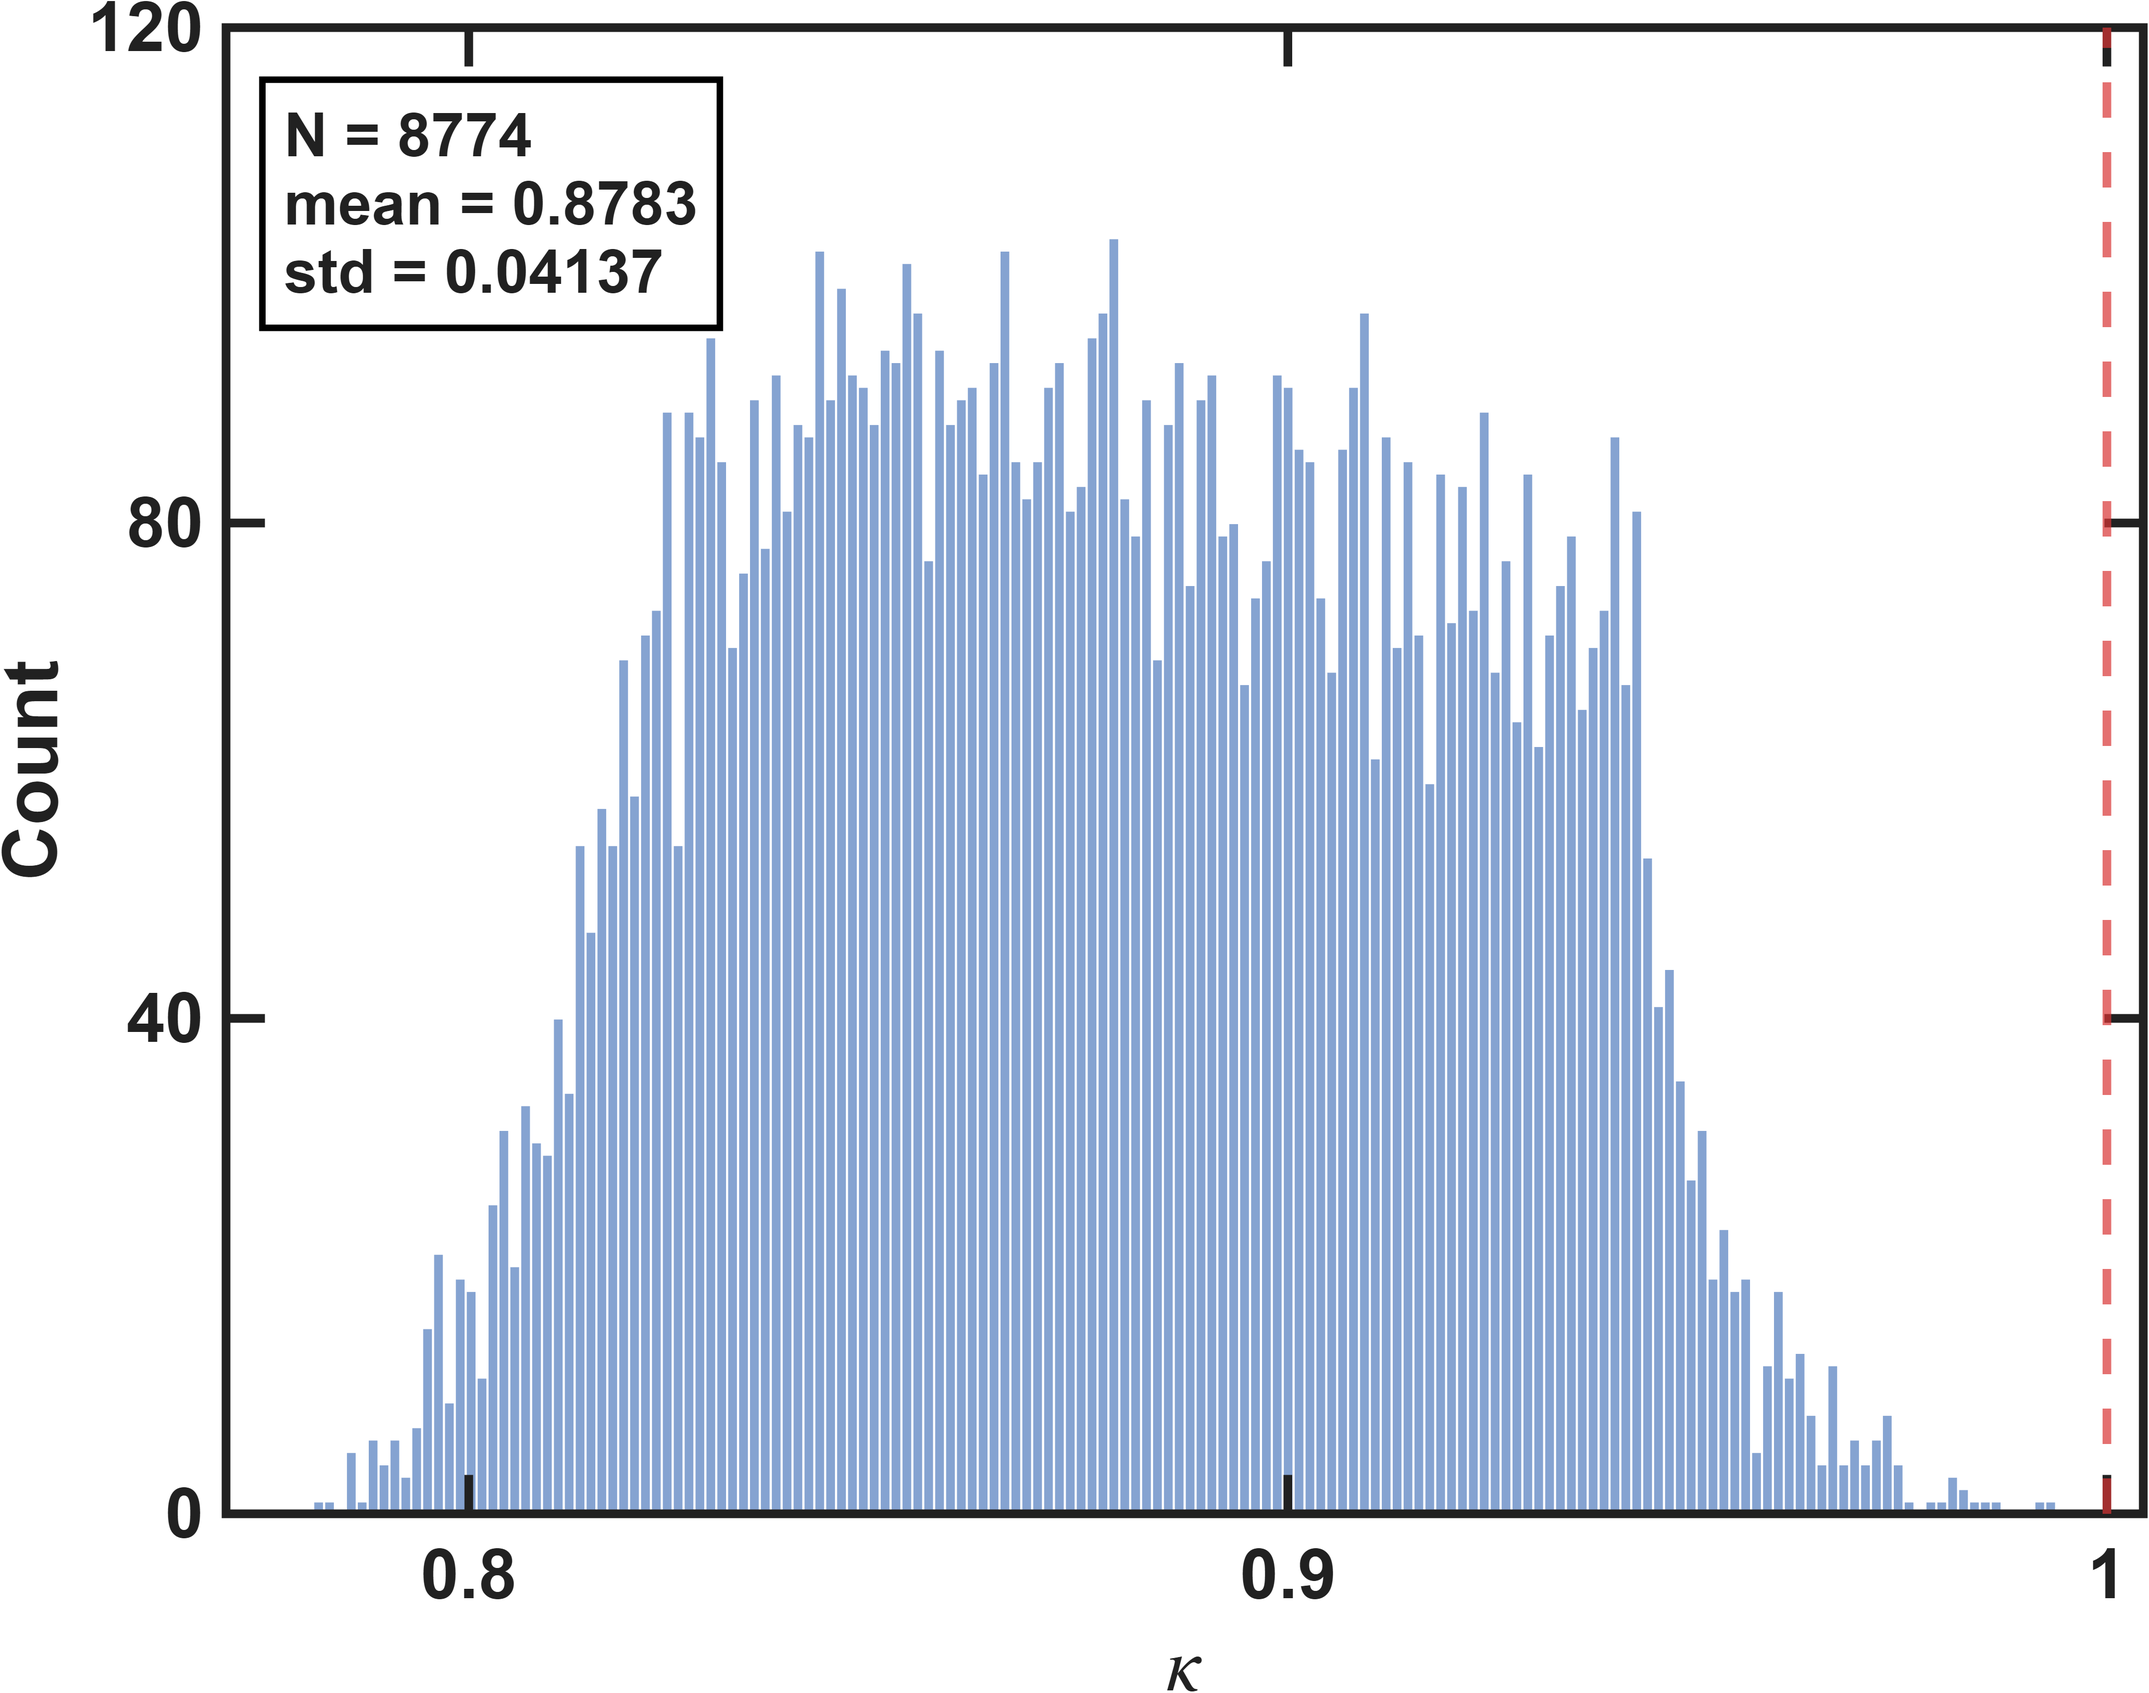
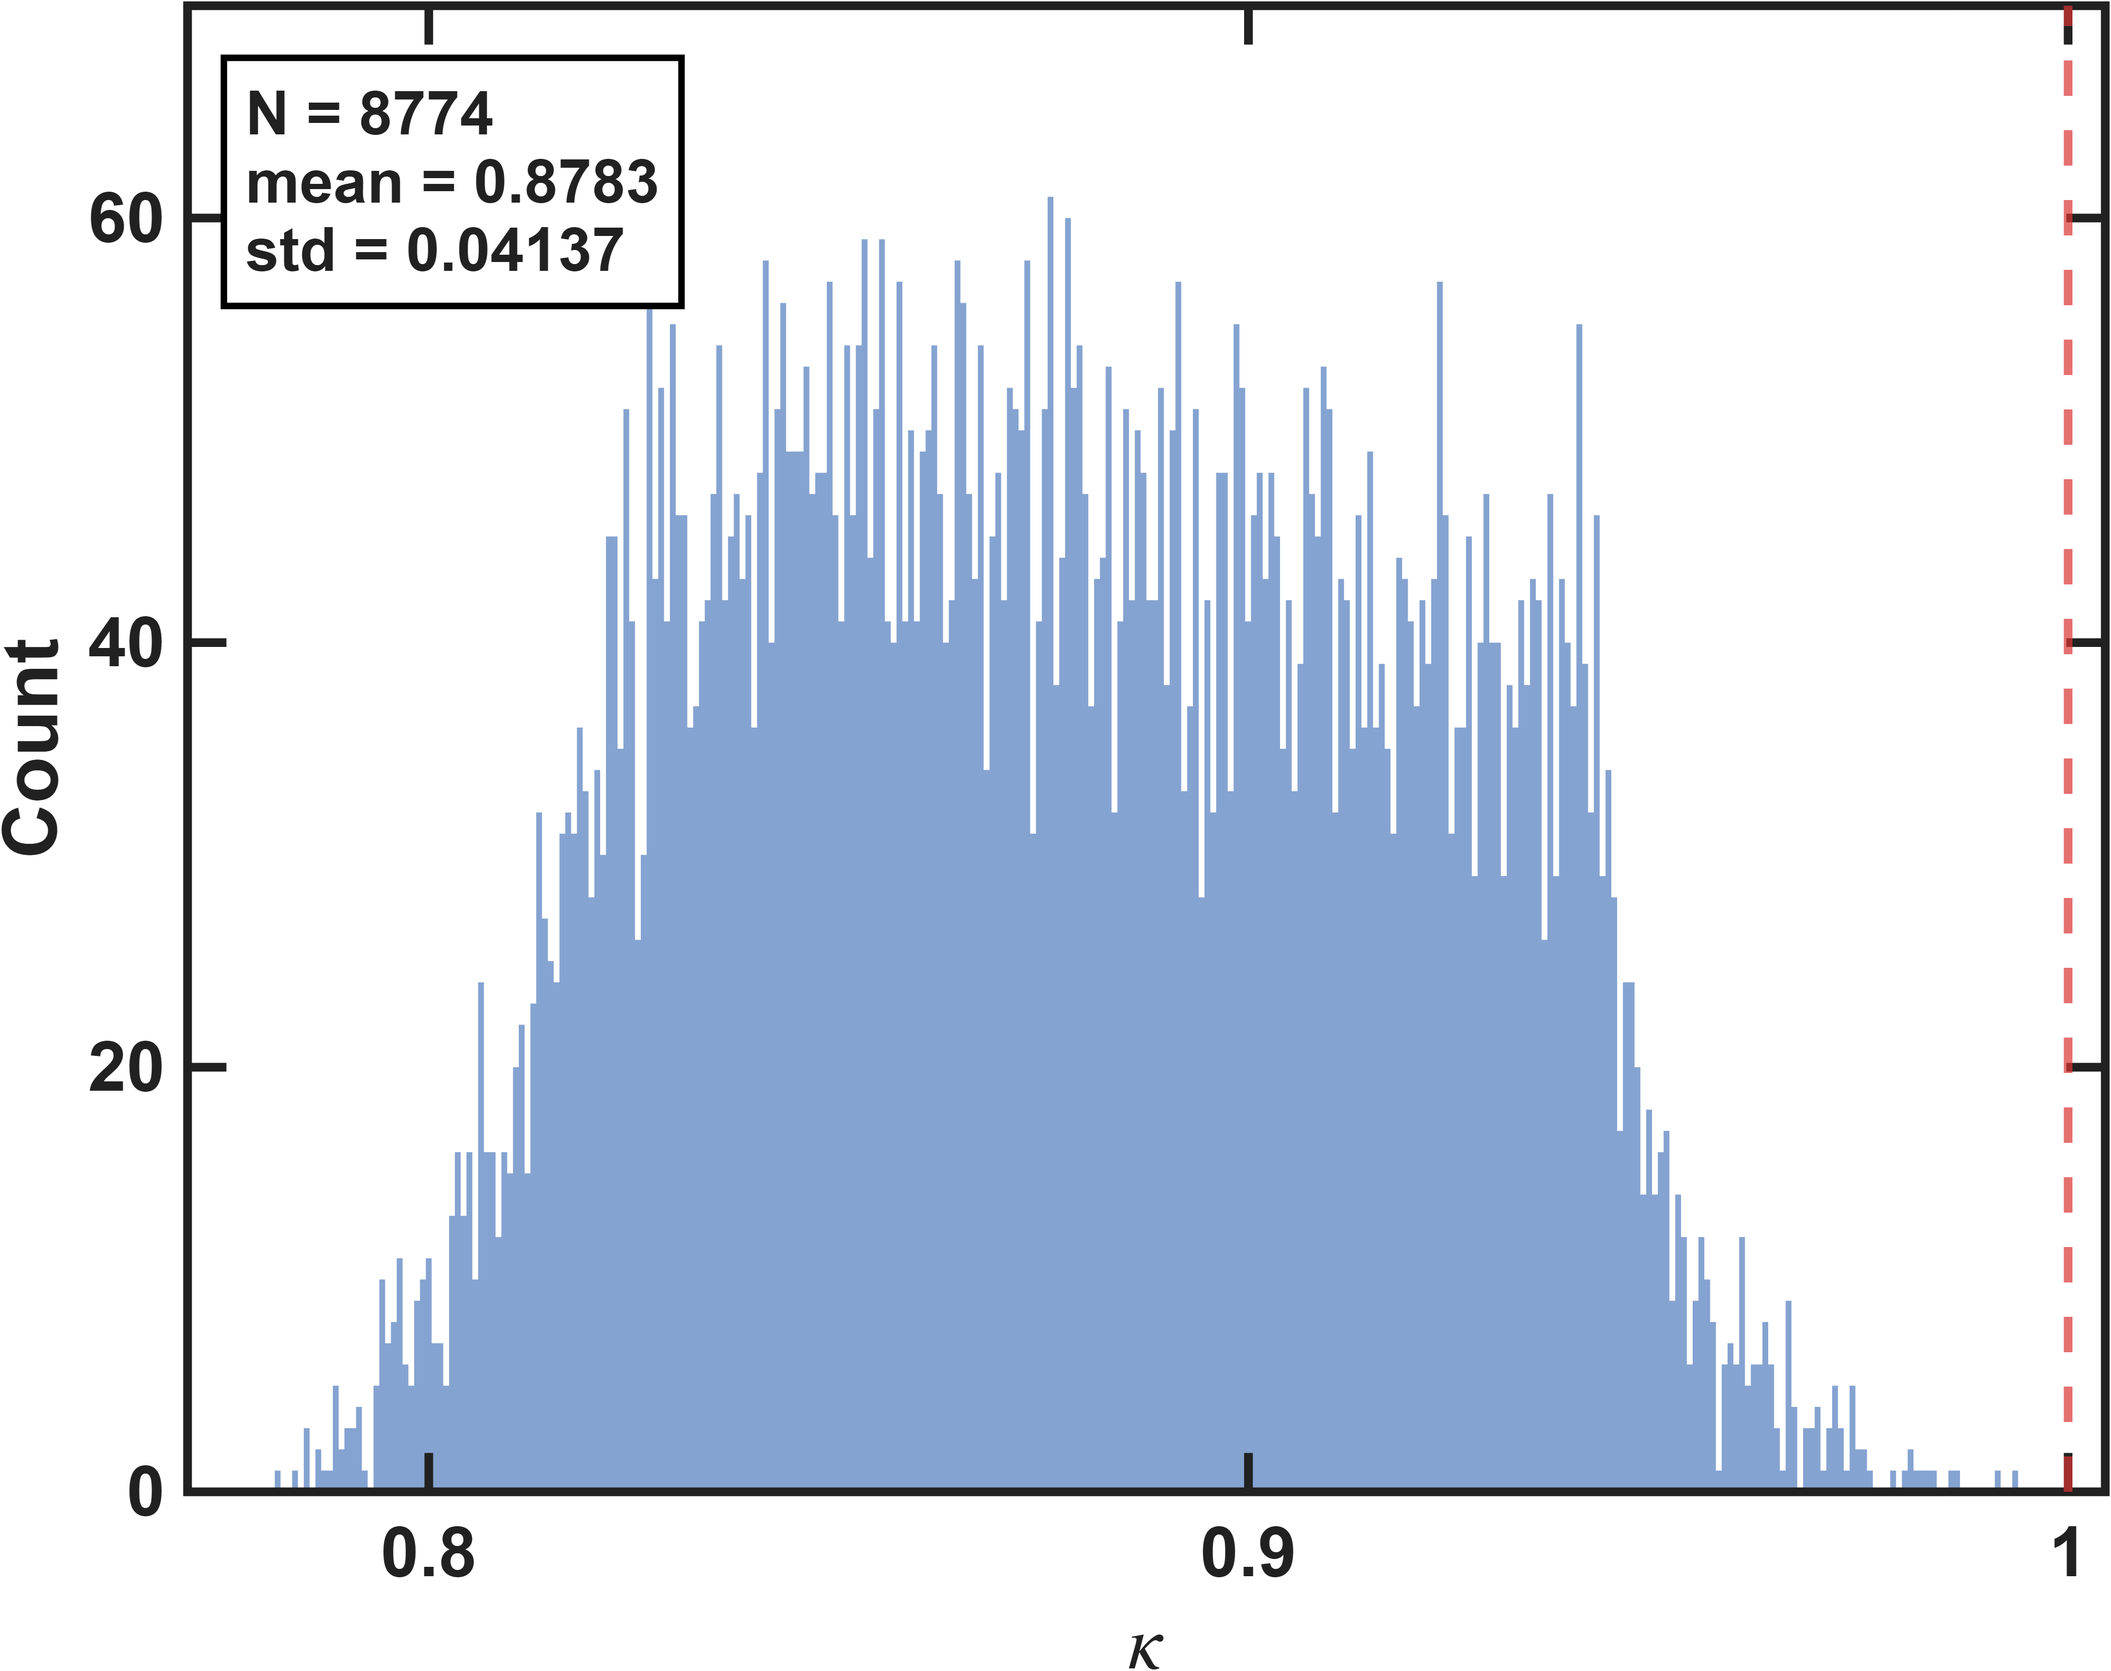
index histograms: 300 bins + no bar edges -> solid dense fill (no visible cells)

diff --git a/magnetic_sim/ANSYS/main/matlab/long2016_hexapole_halfcut/Calibration_using_FEM_modeling/no_fix_dir/code/plot/plot_gain_iso_index.m b/magnetic_sim/ANSYS/main/matlab/long2016_hexapole_halfcut/Calibration_using_FEM_modeling/no_fix_dir/code/plot/plot_gain_iso_index.m
@@ -54,10 +54,10 @@ end
 function render_hist(y, xlab, sunit, vline, out)
 % 直方圖（風格比照 plot_charge_field_err_hist）：鋼藍+白邊細長條、左上黑框註記、Count 縱軸、vline 紅虛線。
     n = numel(y);  m = mean(y);  s = std(y);
-    NB = 160;                                                       % bin 數（細；參考 err-hist 圖 ~160 格）
+    NB = 300;                                                       % bin 數（爆密；配 EdgeColor none → 長條併成實心、看不出格子）
     fig = figure('Color','w','Position',[100 100 760 560]);
     ax  = axes(fig);
-    histogram(ax, y, NB, 'FaceColor',[0.20 0.40 0.70], 'EdgeColor','w');
+    histogram(ax, y, NB, 'FaceColor',[0.20 0.40 0.70], 'EdgeColor','none');
     xl = xlim(ax);                                                  % 若 vline 貼/超右界 → 延伸右界讓虛線落在框內
     if vline >= xl(2) - 0.005*(xl(2)-xl(1))
         xlim(ax, [xl(1), vline + 0.03*(xl(2)-xl(1))]);
